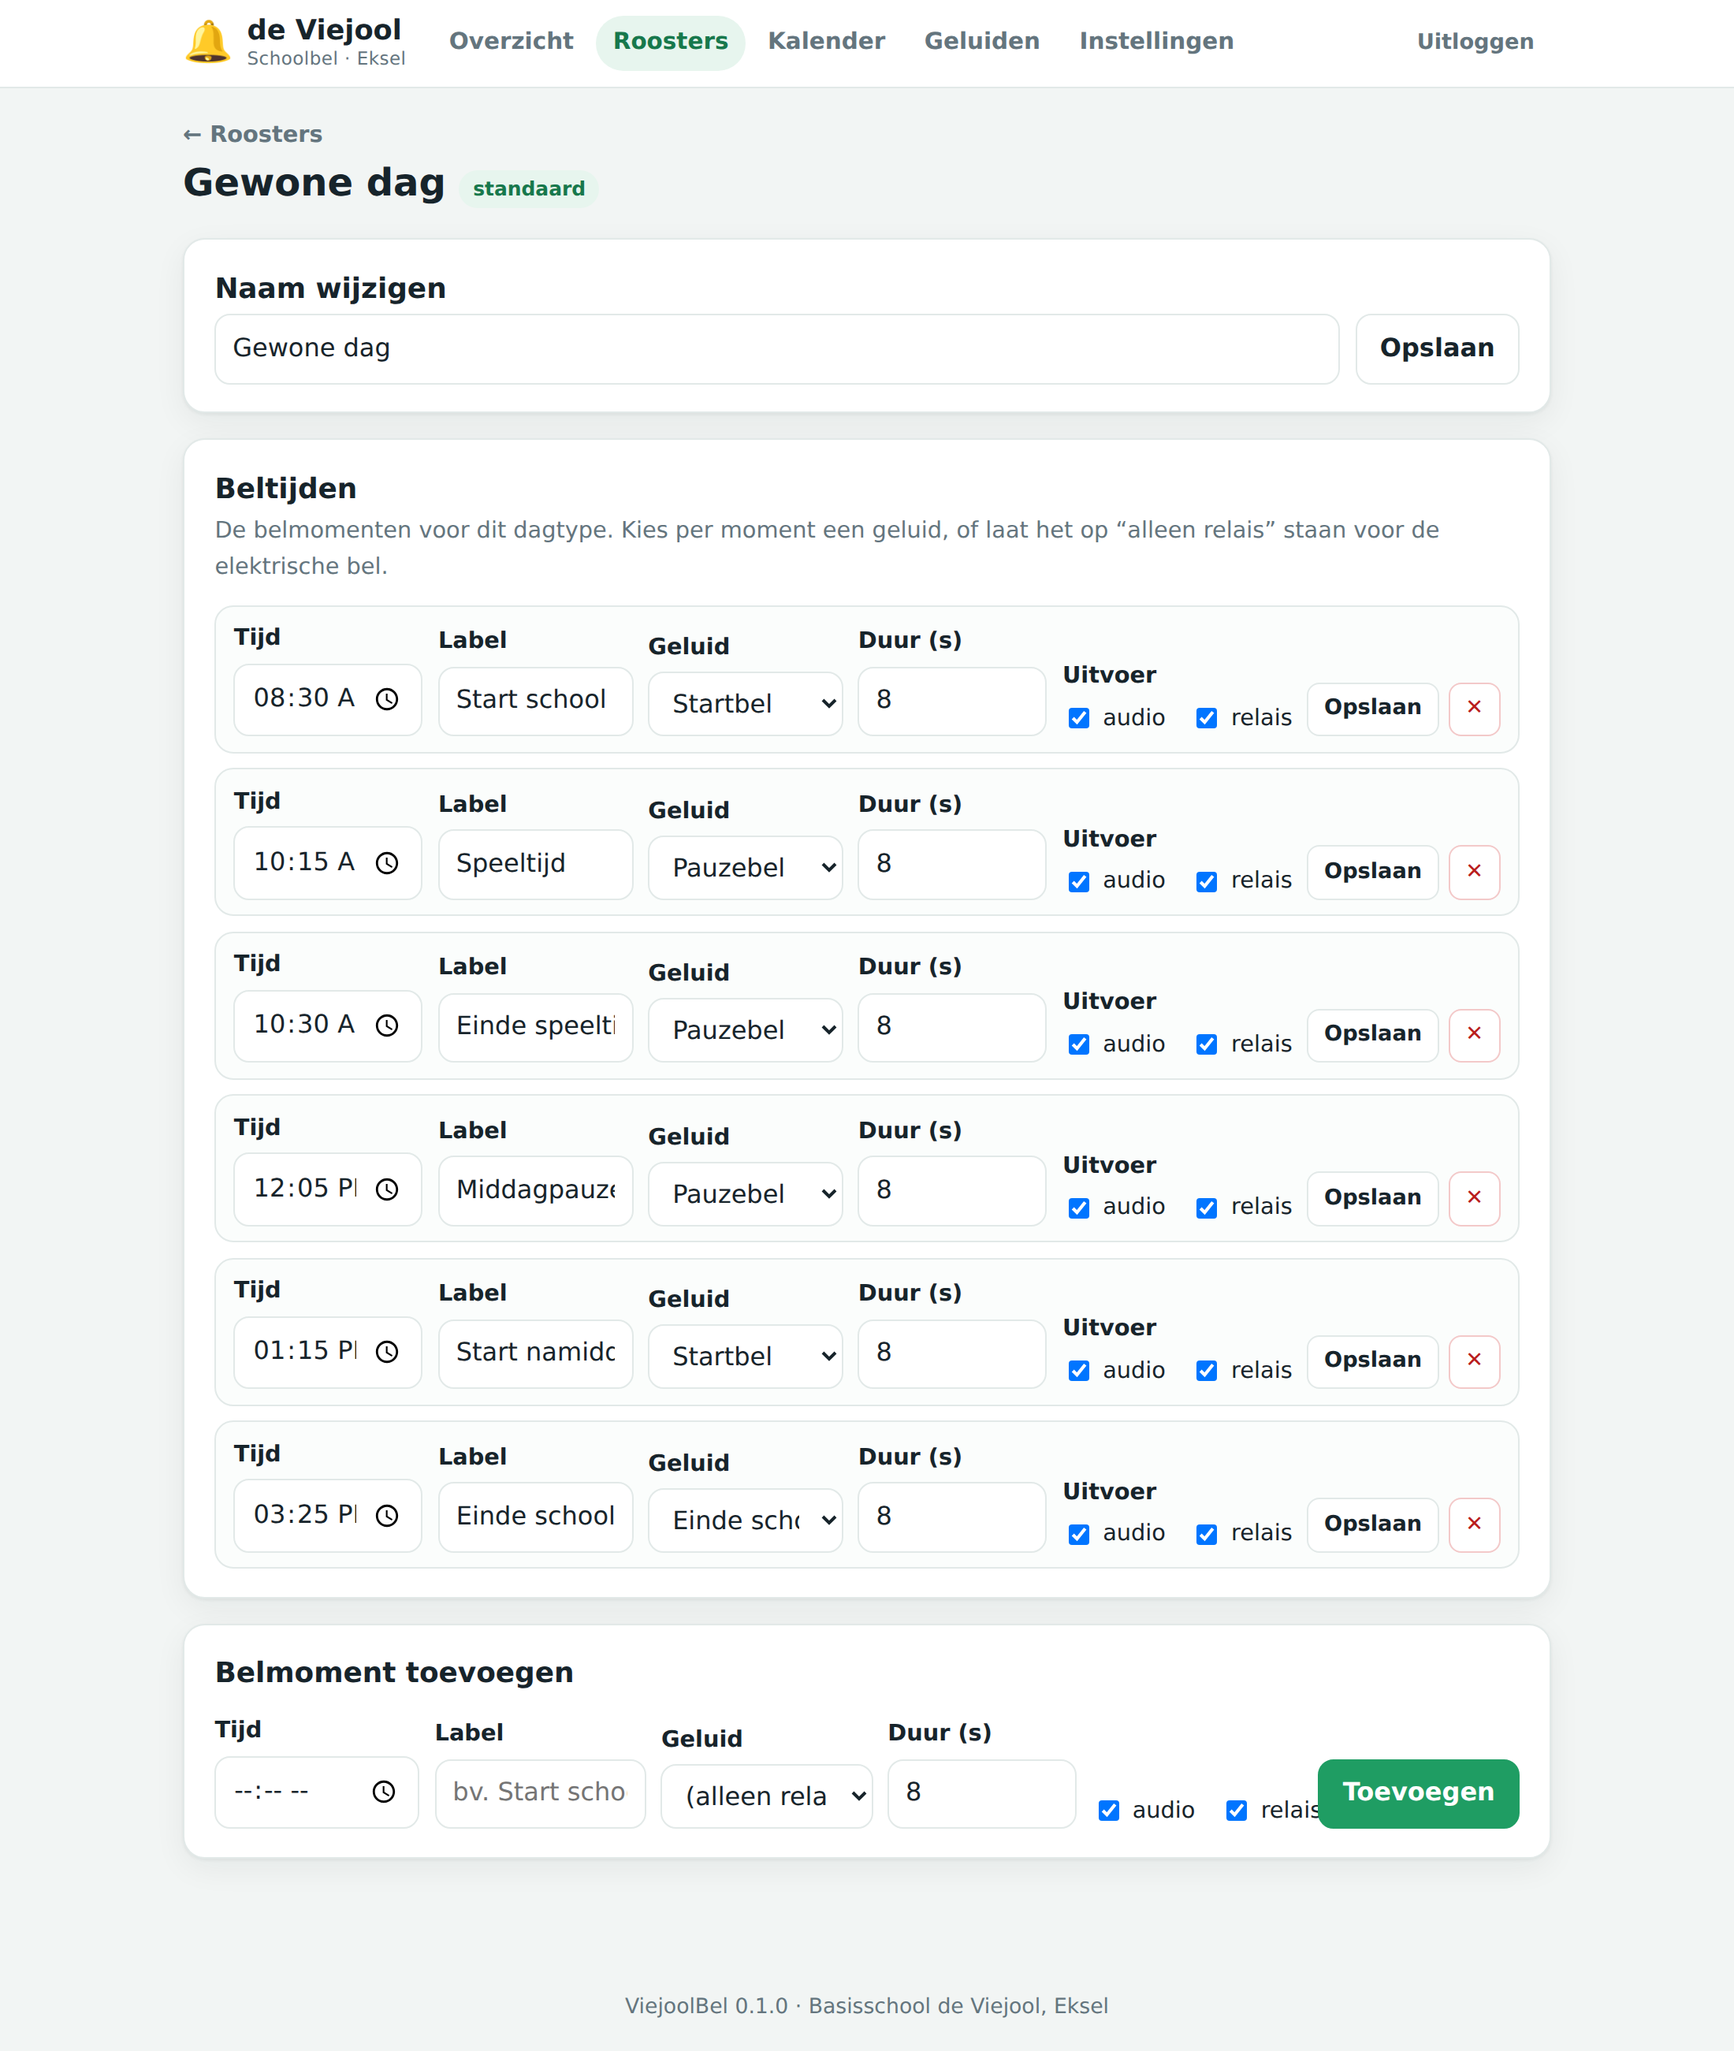
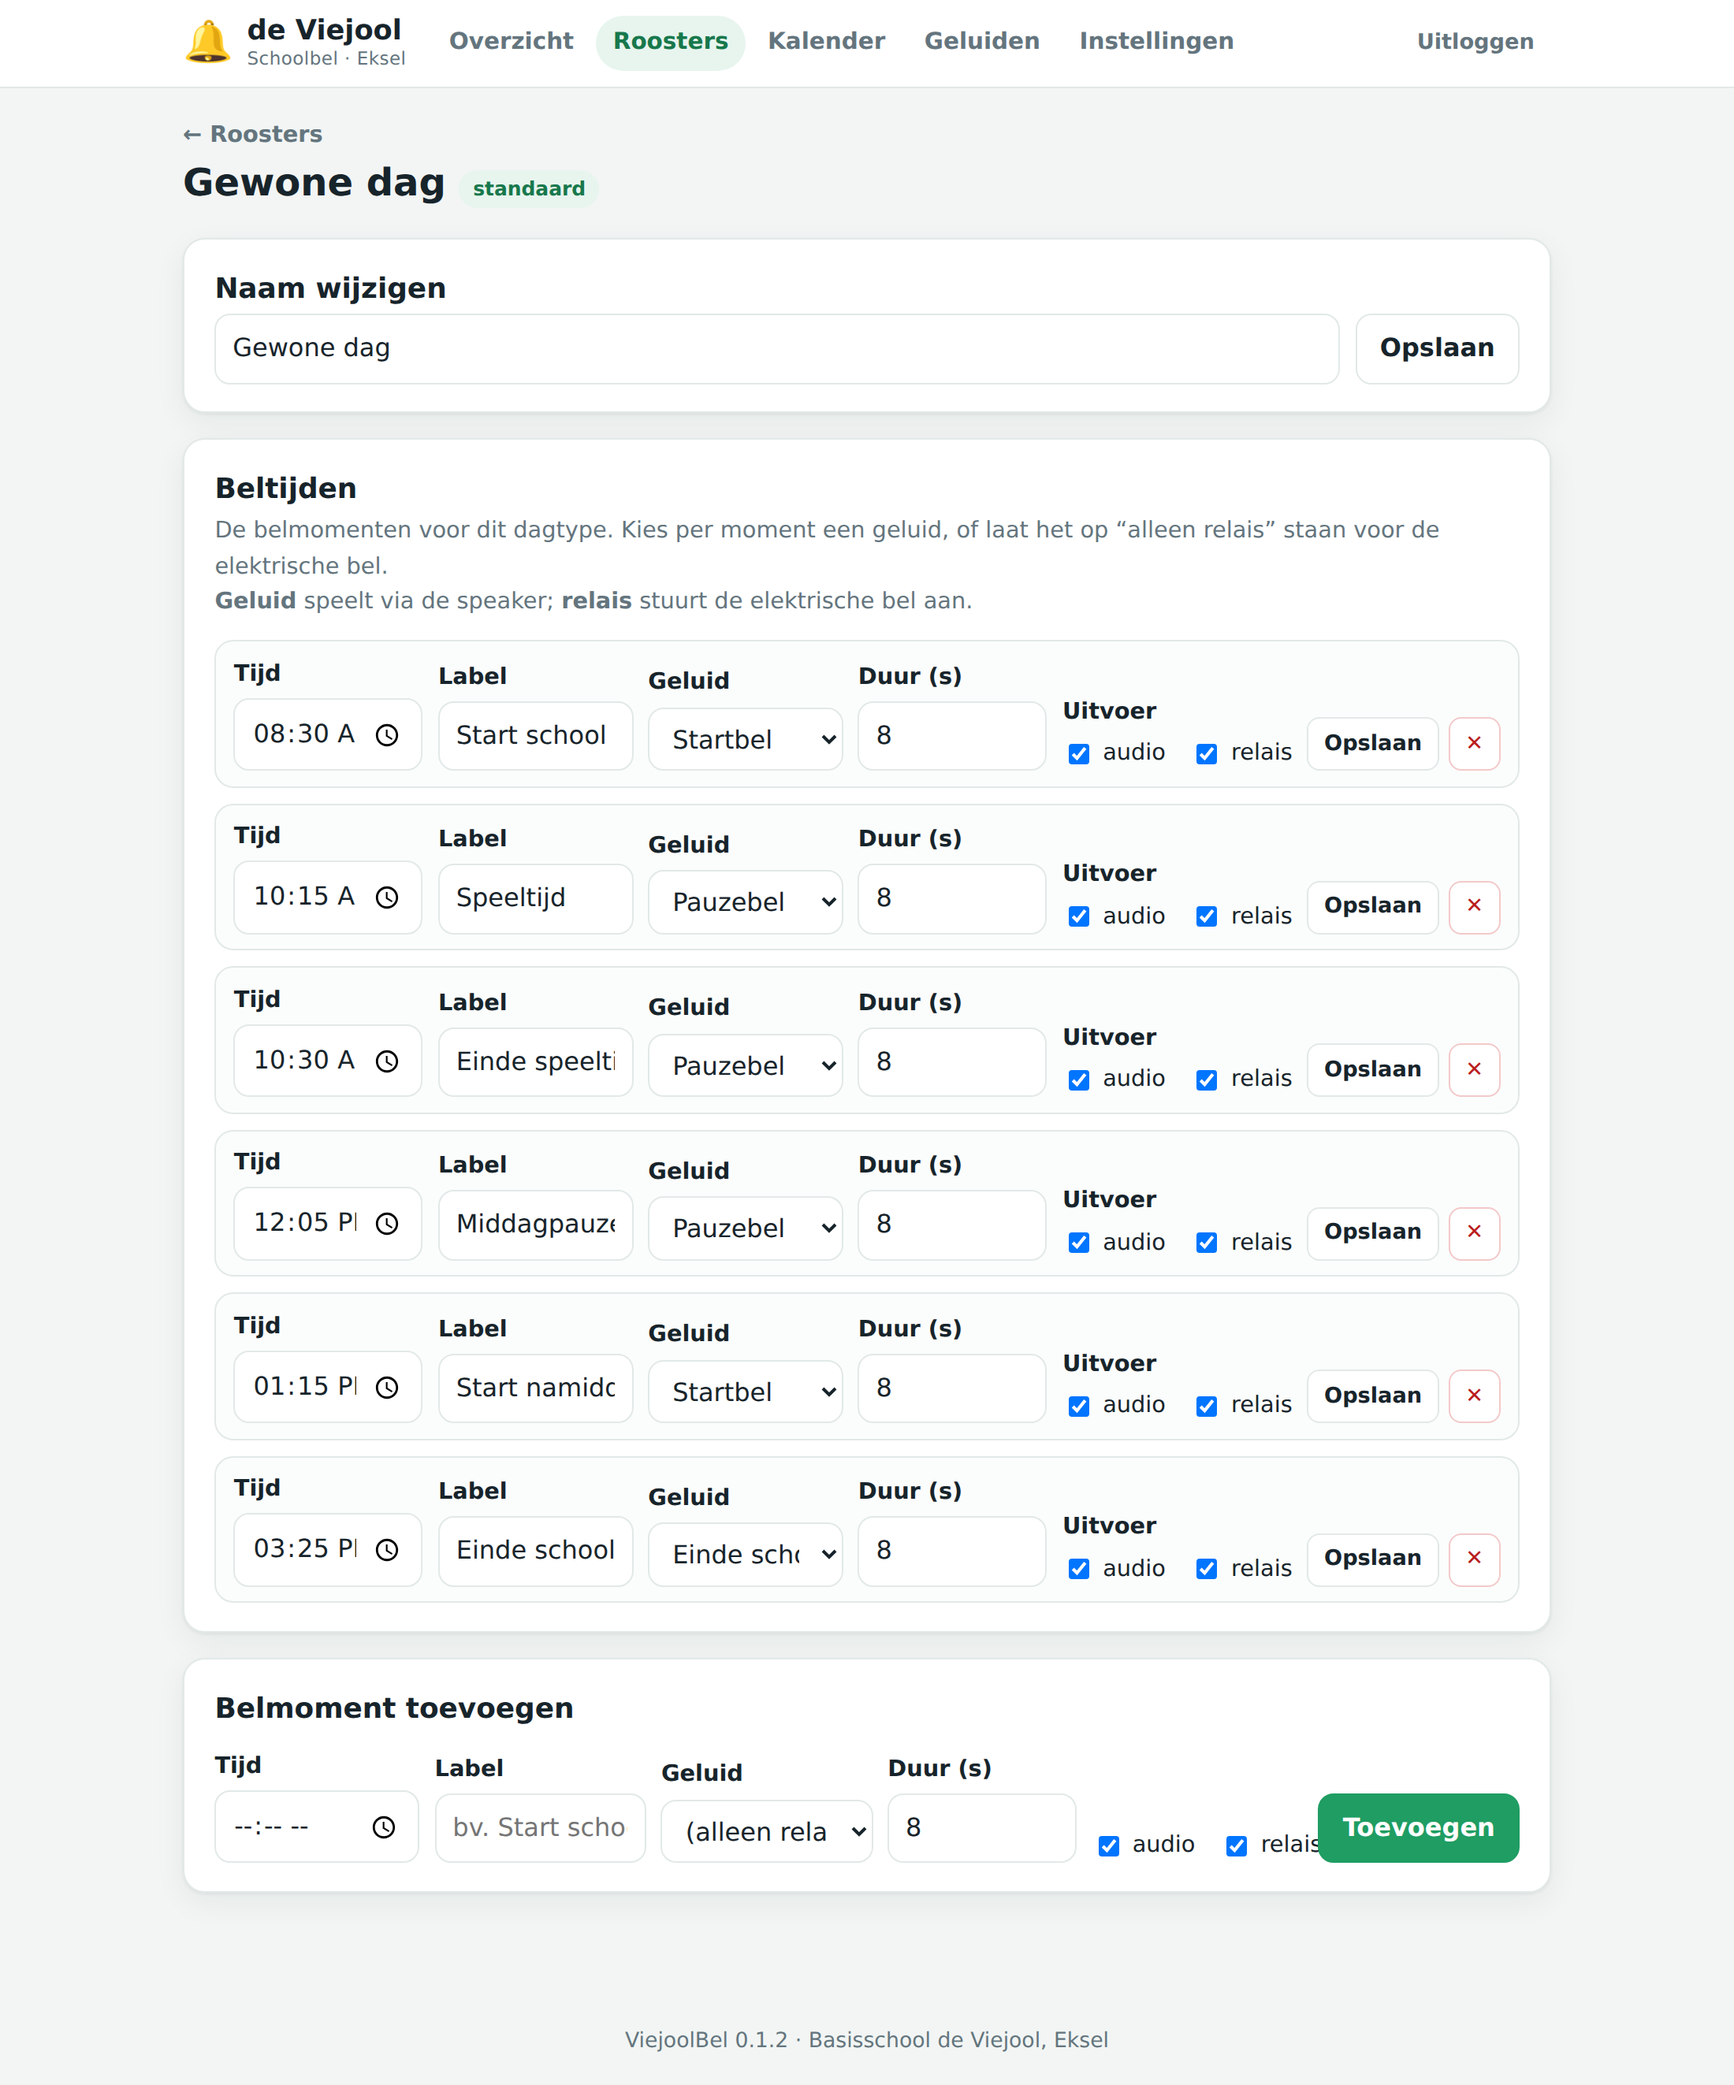
Improve everyday usability for non-expert users
- Name the seeded default day-type in Dutch ("Gewone dag" instead of "Normal").
- Show a brief confirmation toast after every save/delete, so it is obvious the
  action took effect (the page reloads and confirms).
- Explain jargon inline: "geluid" vs "relais" on Bel nu and in the schedule
  editor (speaker vs. the electric bell).
- Mark the notification settings as advanced/optional so they don't intimidate.

Refreshes the UI screenshots under docs/screenshots.

Claude-Session: https://claude.ai/code/session_01XETaryTMG7oBG8iPmBU6Mo

diff --git a/viejoolbel/web/static/app.js b/viejoolbel/web/static/app.js
@@ -42,19 +42,42 @@ async function _submitForm(form) {
       if (btn) btn.disabled = false;
       return;
     }
-    location.reload();
+    reloadWithToast('Gelukt ✓');
   } catch (e) {
     alert('Netwerkfout: ' + e);
     if (btn) btn.disabled = false;
   }
 }
 
+// Show a brief confirmation after the page reloads, so a non-expert can see that
+// their action actually took effect.
+function reloadWithToast(msg) {
+  try { sessionStorage.setItem('vb_toast', msg); } catch (e) { /* ignore */ }
+  location.reload();
+}
+
+function showToast(msg) {
+  const el = document.getElementById('toast');
+  if (!el) return;
+  el.textContent = msg;
+  el.hidden = false;
+  el.classList.add('show');
+  setTimeout(() => { el.classList.remove('show'); }, 2200);
+  setTimeout(() => { el.hidden = true; }, 2600);
+}
+
+window.addEventListener('DOMContentLoaded', () => {
+  let msg = null;
+  try { msg = sessionStorage.getItem('vb_toast'); sessionStorage.removeItem('vb_toast'); } catch (e) { /* ignore */ }
+  if (msg) showToast(msg);
+});
+
 async function apiDelete(url, confirmMsg) {
   if (confirmMsg && !confirm(confirmMsg)) return;
   try {
     const resp = await fetch(url, { method: 'DELETE' });
     if (!resp.ok) { alert('Mislukt: ' + (await extractError(resp))); return; }
-    location.reload();
+    reloadWithToast('Verwijderd ✓');
   } catch (e) { alert('Netwerkfout: ' + e); }
 }
 
@@ -64,7 +87,7 @@ async function apiPost(url, data) {
   try {
     const resp = await fetch(url, { method: 'POST', body });
     if (!resp.ok) { alert('Mislukt: ' + (await extractError(resp))); return; }
-    location.reload();
+    reloadWithToast('Gelukt ✓');
   } catch (e) { alert('Netwerkfout: ' + e); }
 }
 

diff --git a/viejoolbel/web/static/style.css b/viejoolbel/web/static/style.css
@@ -149,5 +149,14 @@ tr:last-child td { border-bottom: none; }
 /* ---- Misc ---- */
 .stack > * + * { margin-top: .6rem; }
 .empty-state { text-align: center; color: var(--muted); padding: 1.5rem 0; }
+
+/* ---- Success toast ---- */
+.toast {
+  position: fixed; left: 50%; bottom: 24px; transform: translateX(-50%) translateY(12px);
+  background: var(--primary-dark); color: #fff; padding: .6rem 1.1rem; border-radius: 999px;
+  font-weight: 600; box-shadow: var(--shadow); opacity: 0; transition: opacity .2s, transform .2s;
+  z-index: 50; pointer-events: none;
+}
+.toast.show { opacity: 1; transform: translateX(-50%) translateY(0); }
 .list-link { text-decoration: none; color: var(--ink); font-weight: 600; }
 .list-link:hover { color: var(--primary-dark); }

diff --git a/viejoolbel/web/templates/dashboard.html b/viejoolbel/web/templates/dashboard.html
@@ -52,11 +52,12 @@
       <input type="number" name="duration" value="8" min="1" max="120">
     </div>
     <div class="checks">
-      <label class="check"><input type="checkbox" name="use_audio" checked> audio</label>
+      <label class="check"><input type="checkbox" name="use_audio" checked> geluid</label>
       <label class="check"><input type="checkbox" name="use_relay" checked> relais</label>
     </div>
     <button class="btn btn-primary" type="submit">🔔 Bel nu</button>
   </form>
+  <p class="hint">Geluid = via de speaker · Relais = de elektrische bel.</p>
   <div class="form-actions">
     <form method="post" action="/api/self-test" class="inline" onsubmit="return postForm(this)">
       <button type="submit" class="btn">Zelftest</button>

diff --git a/viejoolbel/web/templates/rooster_detail.html b/viejoolbel/web/templates/rooster_detail.html
@@ -23,7 +23,9 @@
 <section class="card">
   <h2>Beltijden</h2>
   <p class="sub">De belmomenten voor dit dagtype. Kies per moment een geluid, of
-    laat het op “alleen relais” staan voor de elektrische bel.</p>
+    laat het op “alleen relais” staan voor de elektrische bel.
+    <br><strong>Geluid</strong> speelt via de speaker; <strong>relais</strong>
+    stuurt de elektrische bel aan.</p>
 
   {% if events %}
   <div class="stack">

diff --git a/viejoolbel/web/templates/layout.html b/viejoolbel/web/templates/layout.html
@@ -38,6 +38,7 @@
   <footer class="foot">
     <small>ViejoolBel {{ version }} · Basisschool de Viejool, Eksel</small>
   </footer>
+  <div id="toast" class="toast" hidden></div>
   <script src="/static/app.js"></script>
   {% block scripts %}{% endblock %}
 </body>

diff --git a/viejoolbel/db.py b/viejoolbel/db.py
@@ -94,10 +94,10 @@ def migrate(s: Session) -> None:
 def seed_defaults(s: Session) -> None:
     """Create sensible defaults on a fresh database so the UI is usable at once."""
     if s.scalar(select(DayType).limit(1)) is None:
-        normal = DayType(name="Normal", is_default=True)
+        normal = DayType(name="Gewone dag", is_default=True)
         s.add(normal)
         s.flush()
-        # Monday–Friday default to the Normal day-type; weekends closed.
+        # Monday–Friday default to the "Gewone dag" day-type; weekends closed.
         for wd in range(7):
             kind = CalendarRuleKind.DAY_TYPE if wd < 5 else CalendarRuleKind.CLOSED
             s.add(

diff --git a/CHANGELOG.md b/CHANGELOG.md
@@ -5,6 +5,12 @@ The format is based on [Keep a Changelog](https://keepachangelog.com/).
 
 ## [0.1.2] - 2026-09-07
 
+### Changed
+- **Usability polish for non-experts:** the default day-type is now named in Dutch
+  ("Gewone dag" instead of "Normal"); every save shows a brief confirmation toast;
+  "audio" / "relais" are explained inline (speaker vs. electric bell); and the
+  advanced notification settings are labelled as optional.
+
 ### Fixed
 - **Update check reported "up to date" for a valid newer release** when the
   release tag had unusual punctuation (e.g. `v.0.1.1`). Version parsing now
